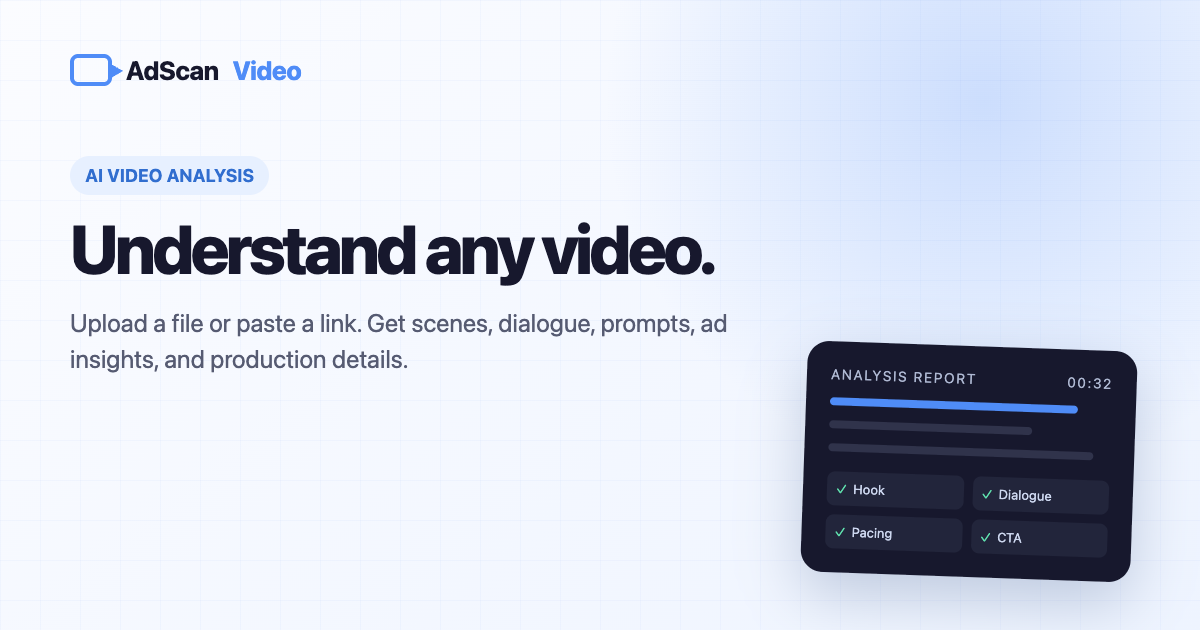
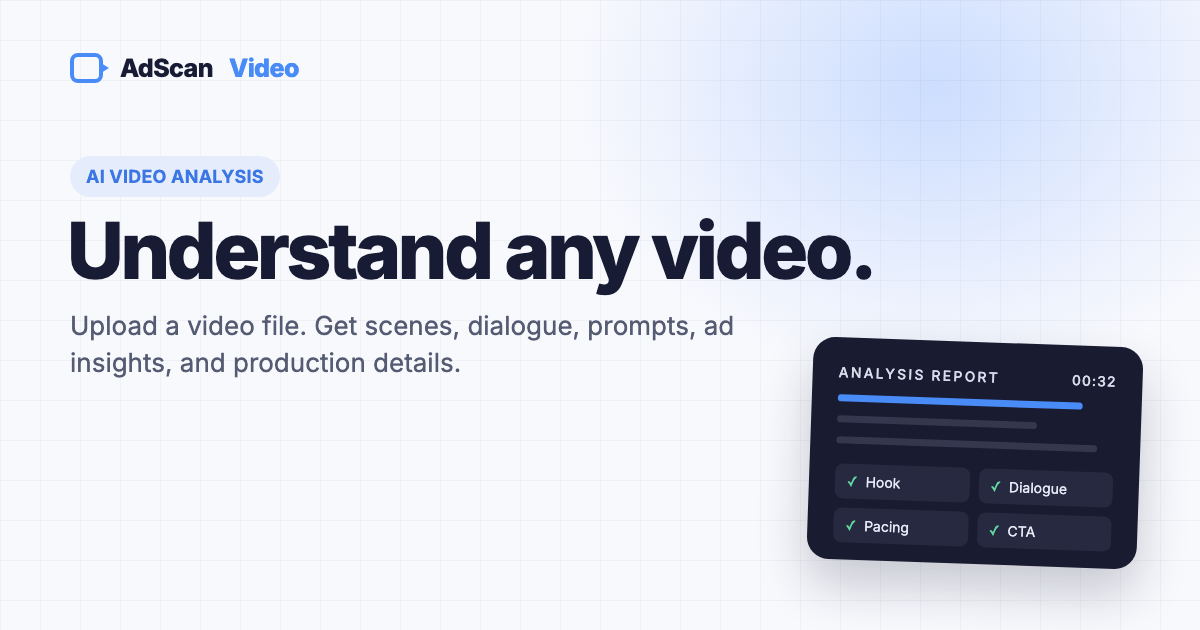
Correct stale link-input and monthly plan claims
The analyzer accepts uploaded files only and Monthly Premium is
available, so update the overview, support, sample and guide pages
and the social preview image. Record the one-free-sample release.

diff --git a/what-is-adscanvideo/index.html b/what-is-adscanvideo/index.html
@@ -40,7 +40,7 @@ footer{border-top:1px solid var(--border);padding:24px;max-width:760px;margin:0 
 "offers":[{"@type":"Offer","name":"Free","price":"0","priceCurrency":"USD","description":"First analysis free, videos up to 10 minutes, all modes, no signup required."},{"@type":"Offer","name":"Pay as you go","price":"3.99","priceCurrency":"USD","description":"One additional analysis for $3.99 per video. Tax is included where applicable. No subscription."}]},
 {"@type":"FAQPage","mainEntity":[
 {"@type":"Question","name":"What is AdScanVideo?","acceptedAnswer":{"@type":"Answer","text":"AdScanVideo is a web-based AI video analysis tool. You upload a video file, choose an analysis mode, and the tool extracts frames, deduplicates them, and analyzes them with AI to return structured text output."}},
-{"@type":"Question","name":"How much does AdScanVideo cost?","acceptedAnswer":{"@type":"Answer","text":"AdScanVideo is free to start with one sample analysis and no signup. An additional analysis costs $3.99 per video, with tax included where applicable. A capped monthly plan is proposed but not yet available to purchase."}},
+{"@type":"Question","name":"How much does AdScanVideo cost?","acceptedAnswer":{"@type":"Answer","text":"AdScanVideo is free to start with one sample analysis and no signup. An additional analysis costs $3.99 per video, with tax included where applicable. Monthly Premium costs $39.99 per month for 20 analyses, with videos up to 45 minutes."}},
 {"@type":"Question","name":"What video sources does AdScanVideo support?","acceptedAnswer":{"@type":"Answer","text":"AdScanVideo accepts direct file uploads in mp4, mov, webm, and mkv formats up to 200MB. The free tier supports videos up to 10 minutes."}},
 {"@type":"Question","name":"Do I need an account to use AdScanVideo?","acceptedAnswer":{"@type":"Answer","text":"No. The free tier requires no signup and no credit card. You can upload a video file and get an analysis immediately."}},
 {"@type":"Question","name":"What are the AdScanVideo analysis modes?","acceptedAnswer":{"@type":"Answer","text":"There are six modes: shot-by-shot analysis, cinematic AI prompts, podcast and interview notes, marketing assets, tutorial breakdown, and summary. Each mode returns a different structured output format."}},
@@ -53,10 +53,10 @@ footer{border-top:1px solid var(--border);padding:24px;max-width:760px;margin:0 
 <nav><div class="logo"><a href="/"><svg viewBox="0 0 24 24" fill="none" stroke="currentColor" stroke-width="2"><polygon points="23 7 16 12 23 17 23 7"/><rect x="1" y="5" width="15" height="14" rx="2" ry="2"/></svg>AdScan<span>Video</span></a></div><div class="nav-links"><a href="/">Home</a><a href="/blog/">Blog</a></div></nav>
 <div class="container">
 <h1>What is AdScanVideo?</h1>
-<div class="meta">Product Overview · Updated September 2026 · 3 min read</div>
+<div class="meta">Product Overview · Updated November 2026 · 3 min read</div>
 
 <div class="answer">
-<p><strong>AdScanVideo is a web-based AI video analysis tool.</strong> You give it a video — a YouTube or TikTok link, a video URL, or a file upload — and it gives you back structured written analysis.</p>
+<p><strong>AdScanVideo is a web-based AI video analysis tool.</strong> You upload a video file and it gives you back structured written analysis.</p>
 <p>It does not edit video, generate video, or host your files. It reads a video and explains what is in it, shot by shot, in text you can copy and use.</p>
 </div>
 
@@ -102,7 +102,7 @@ footer{border-top:1px solid var(--border);padding:24px;max-width:760px;margin:0 
 <tr><th>Plan</th><th>Price</th><th>Includes</th></tr>
 <tr><td><strong>Free</strong></td><td>$0</td><td>Your first analysis, videos up to 10 minutes, all six modes, no signup</td></tr>
 <tr><td><strong>Pay as you go</strong></td><td>$3.99 per video</td><td>One additional analysis, export to DOCX and PDF, no subscription. Tax is included where applicable.</td></tr>
-<tr><td><strong>Monthly</strong></td><td>$39.99/month proposed</td><td>A capped plan with 20 additional analyses per month is in development; it is not available to purchase yet.</td></tr>
+<tr><td><strong>Monthly</strong></td><td>$39.99/month</td><td>Monthly Premium: 20 analyses per paid billing month, videos up to 45 minutes, exports included.</td></tr>
 <tr><td><strong>Agency pilot</strong></td><td>From $499/month, by agreement</td><td>Volume and deliverables are scoped individually. Contact us to discuss your workflow; no self-serve agency checkout is available.</td></tr>
 </table>
 
@@ -144,13 +144,13 @@ footer{border-top:1px solid var(--border);padding:24px;max-width:760px;margin:0 
 <p class="faq-a">Yes. Your first analysis is free, with videos up to 10 minutes and access to all six modes, with no signup and no credit card.</p>
 
 <p class="faq-q">How much does it cost after free?</p>
-<p class="faq-a">Your first analysis is free. Additional analyses cost $3.99 per video. The planned monthly tier is not available yet.</p>
+<p class="faq-a">Your first analysis is free. Additional analyses cost $3.99 per video. Monthly Premium costs $39.99 per month for 20 analyses, with videos up to 45 minutes.</p>
 
 <p class="faq-q">What kinds of videos work best?</p>
 <p class="faq-a">Videos up to 10 minutes work best — ads, TikTok clips, YouTube shorts, product demos, interviews, and individual scenes.</p>
 
 <p class="faq-q">Does it work on competitor ads?</p>
-<p class="faq-a">Yes. Reverse-engineering a competitor's video ad is one of the main uses. Upload or link the ad and use shot-by-shot analysis to see its hook, pacing, and structure with timestamps.</p>
+<p class="faq-a">Yes. Reverse-engineering a competitor's video ad is one of the main uses. Upload the ad file and use shot-by-shot analysis to see its hook, pacing, and structure with timestamps.</p>
 
 <p class="faq-q">Does AdScanVideo work with Seedance, Kling, Sora, and Veo?</p>
 <p class="faq-a">Yes. The cinematic prompts mode produces shot descriptions covering subject, action, environment, camera, mood, and aspect ratio — the same fields those models expect.</p>

diff --git a/samples/animated-cat-shot-breakdown/index.html b/samples/animated-cat-shot-breakdown/index.html
@@ -4,4 +4,4 @@
 <main><header class="report-hero"><div><div class="meta">REAL SAMPLE · SHOT BREAKDOWN</div><h1>An animated story mapped second by second.</h1><p class="dek">A fast, vertical animation moves through three settings in eight seconds. AdScanVideo identified nine visual moments and preserved the sequence as a practical shot map.</p><div class="report-summary"><span>Duration 00:08</span><span>12 frames sampled</span><span>11 frames kept</span><span>Minimal dialogue</span></div></div><figure><img src="/samples/assets/cat-opening.jpg" alt="Animated orange cat holding a stick beside a duck"><figcaption>Representative frame at 00:00.6. The source video is not hosted on this page.</figcaption></figure></header>
 <div class="report-body"><aside class="report-aside"><nav aria-label="Report sections"><a href="#source">Source</a><a href="#report">Generated report</a><a href="#reading">What it captured</a><a href="#limitations">Limitations</a></nav></aside><article class="report-content"><h2 id="source">Source clip</h2><p>The supplied MP4 is a 360×640 vertical animation lasting 8.64 seconds. It contains an orange cat, a duck, rapid setting changes, and a short audio track. The live pipeline processed the clip in Shot breakdown mode.</p><div class="frame-pair"><img src="/samples/assets/cat-opening.jpg" alt="Opening field scene with cat and duck"><img src="/samples/assets/cat-kitchen.jpg" alt="Animated cat and duck riding a motorcycle"></div>
 <h2 id="report">Generated report</h2><ol><li><span class="timestamp">00:00–00:01</span><br>Medium shot of a cartoon orange cat with a gold chain and a small duck beside him, both standing in a grassy field under a blue sky with clouds. The camera zooms in slightly.</li><li><span class="timestamp">00:01–00:02</span><br>Medium shot of the cat and duck. The cat appears to be swatting at the duck with a stick. The camera moves down and to the left.</li><li><span class="timestamp">00:02–00:03</span><br>Medium shot of the cat holding a stick with the duck near its feet. The camera moves up and to the right.</li><li><span class="timestamp">00:03</span><br>Medium shot of the cat.</li><li><span class="timestamp">00:03–00:04</span><br>Medium shot of the cat wearing sunglasses and a chain, riding a motorcycle with the duck in front. The camera moves with them.</li><li><span class="timestamp">00:04–00:05</span><br>Medium shot of the cat in a kitchen wearing a chain, holding a knife and cutting food in a pan on a stove.</li><li><span class="timestamp">00:05–00:06</span><br>Medium shot of the cat wearing a chef's hat and a chain, holding tongs and cooking food in a pan.</li><li><span class="timestamp">00:06–00:07</span><br>Medium shot of the cat wearing a chef's hat and a chain, holding tongs and cooking food in a pan.</li><li><span class="timestamp">00:07</span><br>Medium shot of the cat wearing a chef's hat and a chain, holding tongs and cooking food in a pan. A brief “Oh” is detected in the audio.</li></ol>
-<h2 id="reading">What the report captured</h2><p>The output preserved the main sequence: field, motorcycle, then kitchen. It identified recurring characters, costume changes, props, settings, and broad camera movement. This is useful as an editing map or a starting point for a recreation prompt.</p><h2 id="limitations">Limitations visible in this sample</h2><p>Several near-identical cooking frames remain separate because the visuals continue changing. The short audio signal produced only one usable word. Character intent and exact camera technique are inferred from sampled frames and should be checked against the original video.</p><div class="note">This page presents the production model's output with punctuation and formatting changes only. No claims were added after analysis.</div><section class="cta"><h2>Break down your own video</h2><p>Upload a file or paste a public link. Choose Shot breakdown for timestamped visual observations.</p><a href="/?mode=shots#input-zone" data-sample-cta="cat-shot-breakdown">Analyze a video</a></section></article></div></main><footer><div><a href="/samples/">Sample reports</a> · <a href="/about/">Methodology</a></div><div>Generated September 21, 2026</div></footer><script>document.querySelectorAll('[data-sample-cta]').forEach(a=>a.addEventListener('click',()=>gtag('event','sample_report_cta_clicked',{sample:a.dataset.sampleCta})))</script></body></html>
+<h2 id="reading">What the report captured</h2><p>The output preserved the main sequence: field, motorcycle, then kitchen. It identified recurring characters, costume changes, props, settings, and broad camera movement. This is useful as an editing map or a starting point for a recreation prompt.</p><h2 id="limitations">Limitations visible in this sample</h2><p>Several near-identical cooking frames remain separate because the visuals continue changing. The short audio signal produced only one usable word. Character intent and exact camera technique are inferred from sampled frames and should be checked against the original video.</p><div class="note">This page presents the production model's output with punctuation and formatting changes only. No claims were added after analysis.</div><section class="cta"><h2>Break down your own video</h2><p>Upload a video file. Choose Shot breakdown for timestamped visual observations.</p><a href="/?mode=shots#input-zone" data-sample-cta="cat-shot-breakdown">Analyze a video</a></section></article></div></main><footer><div><a href="/samples/">Sample reports</a> · <a href="/about/">Methodology</a></div><div>Generated September 21, 2026</div></footer><script>document.querySelectorAll('[data-sample-cta]').forEach(a=>a.addEventListener('click',()=>gtag('event','sample_report_cta_clicked',{sample:a.dataset.sampleCta})))</script></body></html>

diff --git a/blog/youtube-shorts-shot-list-template/index.html b/blog/youtube-shorts-shot-list-template/index.html
@@ -20,7 +20,7 @@ My production decision:
 Placement / caption safe-zone check:
 Owner and status:</pre></div>
 <h2>A five-pass workflow for any reference clip</h2><div class="checklist"><ul><li><strong>Watch once at full speed.</strong> Write the opening, change, and ending in three short sentences. This catches the overall rhythm before frame-by-frame detail distracts you.</li><li><strong>Mark setup changes.</strong> Note when the location, subject, action, or framing changes enough to require a different production choice. Avoid treating every sampled frame as a cut.</li><li><strong>Separate visual facts from guesses.</strong> “Camera appears to move closer” is an observation. “Shot on a 35mm lens with a dolly” is a production choice unless the source actually reveals it.</li><li><strong>Add sound deliberately.</strong> Record confirmed dialogue only when a usable transcript or captions exist. Otherwise mark audio for manual review and plan your own new script.</li><li><strong>Build the new plan.</strong> Decide which timing patterns are useful, then change the characters, story, visual identity, and assets to suit your own concept. Clear any rights before reusing third-party media.</li></ul></div>
-<h2>How to use AI without losing editorial control</h2><p><a href="/video-to-shot-list/">AdScanVideo Shot breakdown</a> can create a first-pass timestamp map with selected frames and available dialogue. It currently analyzes up to 20 selected frames, so a very quick insert or transition can be missed. Scrub the whole clip manually, especially around cuts and text that flashes briefly. When a public link fails because the platform blocks downloading, upload a file you have the right to use; a failed analysis does not use your free sample.</p><p>For a longer production, see the <a href="/blog/turn-video-into-production-shot-list/">general production shot-list guide</a>. If the goal is to make a generative video rather than a filmed one, carry the same setup plan into the <a href="/video-to-prompt/">video-to-prompt workflow</a>, and describe what each new shot should show without copying protected creative elements.</p>
+<h2>How to use AI without losing editorial control</h2><p><a href="/video-to-shot-list/">AdScanVideo Shot breakdown</a> can create a first-pass timestamp map with selected frames and available dialogue. It currently analyzes up to 20 selected frames, so a very quick insert or transition can be missed. Scrub the whole clip manually, especially around cuts and text that flashes briefly. AdScanVideo analyzes uploaded files, not links, so upload a file you have the right to use; a failed analysis does not use your free sample.</p><p>For a longer production, see the <a href="/blog/turn-video-into-production-shot-list/">general production shot-list guide</a>. If the goal is to make a generative video rather than a filmed one, carry the same setup plan into the <a href="/video-to-prompt/">video-to-prompt workflow</a>, and describe what each new shot should show without copying protected creative elements.</p>
 <h2>Frequently asked questions</h2><div class="faq"><h3>Is a shot breakdown the same as a shot list?</h3><p>No. A breakdown records what a finished clip visibly contains. A production shot list adds the new shoot’s location, framing, movement, props, people, audio, and practical instructions.</p></div><div class="faq"><h3>Should every second of a Short become a separate shot?</h3><p>No. Group repeated frames when the setup and action stay the same. Split a beat when the location, subject, framing, or action changes enough that the crew needs a different setup.</p></div><div class="faq"><h3>Can I copy a popular Short shot for shot?</h3><p>Use references to study timing and production choices, then create your own material. Obtain the rights and permissions needed before reusing someone else’s footage, audio, characters, or protected creative elements.</p></div>
 <section class="sources"><h2>Sources and example</h2><ul><li><a href="/samples/animated-cat-shot-breakdown/">AdScanVideo: full real sample output and limitations</a></li><li><a href="https://support.google.com/youtube/answer/12948118?co=YOUTUBE._YTVideoType%3Dshorts&amp;hl=en-GB" rel="noopener">YouTube Help: filming Shorts with a phone</a></li><li><a href="https://support.google.com/youtube/answer/2797466?hl=en" rel="noopener">YouTube Help: copyright and reuse</a></li></ul></section>
 <section class="cta"><h2>Make your first shot map.</h2><p>Upload a short clip you have the right to analyze, choose Shot breakdown, and turn the timestamped report into a production plan. Your first analysis is free.</p><a href="/?mode=shots#input-zone" data-cta="shorts-shot-list-guide">Analyze a video free</a></section></main><footer><div><a href="/">AdScanVideo</a> · <a href="/blog/">All guides</a> · <a href="/privacy/">Privacy</a></div><div>Early access · $3.99/video</div></footer><script>document.querySelectorAll('[data-cta]').forEach(a=>a.addEventListener('click',()=>gtag('event','content_cta_clicked',{content_topic:'youtube_shorts_shot_list',cta_placement:a.dataset.cta})))</script></body></html>

diff --git a/video-to-prompt/index.html b/video-to-prompt/index.html
@@ -17,6 +17,6 @@ Medium close-up of a runner stopping beneath a streetlight at blue hour. Handhel
 <section class="section"><h2>See the difference on a real eight-second clip</h2><p>Our <a href="/samples/animated-cat-shot-breakdown/">published shot-breakdown sample</a> describes an opening 00:00–00:01 moment: an orange cartoon cat and a duck in a grassy field under a blue sky, with a slight camera zoom. That is an observation from a processed video, not a generated video prompt.</p><p>To turn a <em>similar camera idea</em> into an original prompt, keep the shot structure and change the characters and setting. For example:</p><div class="example"><pre>Vertical medium shot, 1 second. Two original paper-cutout characters stand in a sunlit rooftop garden. Begin with both figures in frame and move the camera forward in a subtle, continuous zoom. Bright blue sky, soft cloud shapes, clean readable silhouettes. End before the next scene change.</pre></div><p>This rewritten prompt is a human-written illustration, not verbatim analyzer output. Check the <a href="/samples/animated-cat-shot-breakdown/">real report</a> for the timestamped visual evidence, then edit your own prompt for your chosen video model.</p></section>
 <section class="section"><div class="two"><div><h2>Prompt details to keep</h2><ul class="checklist"><li>Subject and continuous action</li><li>Shot size, angle, and composition</li><li>Camera movement and apparent speed</li><li>Lighting direction, color, and mood</li><li>Duration, dialogue, and transition</li></ul></div><div><h2>Details to rewrite</h2><ul class="checklist"><li>Brand and product identity</li><li>Protected characters or distinctive artwork</li><li>Claims and on-screen copy</li><li>Location and wardrobe for your concept</li><li>Platform-specific aspect ratio and duration</li></ul></div></div><div class="notice">The analysis describes visible creative choices. It does not reproduce an original video or guarantee that a generation model will match it exactly.</div></section>
 <section class="section"><h2>Questions before you analyze</h2><div class="faq"><h3>Can a video be converted into a text prompt?</h3><p>Yes. The analyzer samples the video and creates timestamped descriptions of subject, action, framing, camera movement, lighting, and style that can be adapted into prompts.</p></div><div class="faq"><h3>Which AI video models can use the prompts?</h3><p>The output is plain structured text, so it can be adapted for Sora, Veo, Kling, Runway, Seedance, and other prompt-based video tools.</p></div><div class="faq"><h3>Does the prompt include dialogue?</h3><p>It includes dialogue when captions or a usable audio transcript are available. Visual-only footage receives visual prompts without invented speech.</p></div><div class="faq"><h3>Can I recreate any copyrighted video?</h3><p>Use references you own or are authorized to study. Transform the idea into original work and respect copyright, trademarks, publicity rights, and platform rules.</p></div><h2 style="margin-top:42px">Related workflows</h2><div class="related"><a href="/video-to-shot-list/">Create a production shot list</a><a href="/ai-video-analyzer/">Analyze the complete video</a><a href="/blog/ai-video-prompts-recreate-any-shot/">Read the prompting guide</a></div></section>
-<section class="final"><h2>Turn the next video into something you can use.</h2><p>Upload a file or paste a public link. Choose the focused mode and get a structured report with your first analysis free.</p><a class="button" href="/?mode=shots#input-zone" data-cta="final">Start free analysis</a></section></main>
+<section class="final"><h2>Turn the next video into something you can use.</h2><p>Upload a video file. Choose the focused mode and get a structured report with your first analysis free.</p><a class="button" href="/?mode=shots#input-zone" data-cta="final">Start free analysis</a></section></main>
 <footer><div><a href="/">AdScanVideo</a> · <a href="/blog/">Guides</a> · <a href="/privacy/">Privacy</a></div><div>Early access · $3.99/video</div></footer>
 <script>document.querySelectorAll('[data-cta]').forEach(a=>a.addEventListener('click',()=>gtag('event','landing_cta_clicked',{landing_page:'video-to-prompt',analysis_mode:'shots',cta_placement:a.dataset.cta})))</script></body></html>

diff --git a/support/index.html b/support/index.html
@@ -1,7 +1,7 @@
 <!doctype html>
 <html lang="en"><head><meta charset="utf-8"><meta name="viewport" content="width=device-width,initial-scale=1"><title>Support, billing and refunds | AdScanVideo</title><meta name="description" content="Get help with failed analyses, credits, receipts and refunds for AdScanVideo."><link rel="canonical" href="https://adscanvideo.com/support/"><link rel="stylesheet" href="/legal.css"></head>
 <body><header><a href="/">AdScanVideo</a><nav aria-label="Site"><a href="/">Analyzer</a><a href="/terms/">Terms</a><a href="/privacy/">Privacy</a></nav></header><main><h1>Support, billing and refunds</h1><p class="updated">Last updated October 2, 2026</p><p class="lede">For help with a video analysis or purchased credit, email <a href="mailto:support@adscanvideo.com">support@adscanvideo.com</a>.</p>
-<h2>Analysis failed or got stuck</h2><p>Refresh the analyzer page to reconnect to an active job. If a job ends in an error, its free allowance or paid credit should be restored automatically. A video link can fail when its platform blocks server downloads; if you own the file or have permission, try uploading it instead. For a video over 10 minutes, upload a shorter clip.</p><p>If the allowance or credit is not restored, email us the approximate time, chosen analysis mode, whether you uploaded or pasted a link, and any error shown. Share the job identifier if you have it. You do not need to send the video itself.</p>
+<h2>Analysis failed or got stuck</h2><p>Refresh the analyzer page to reconnect to an active job. If a job ends in an error, its free allowance or paid credit should be restored automatically. The analyzer accepts uploaded video files, not video links. For a video over your plan's length limit, upload a shorter clip.</p><p>If the allowance or credit is not restored, email us the approximate time, chosen analysis mode, and any error shown. Share the job identifier if you have it. You do not need to send the video itself.</p>
 <h2>Receipts and invoices</h2><p>Stripe Managed Payments emails the payment receipt or invoice to the email address entered at checkout. We do not email the AI report: it appears in your browser when the analysis completes. If you need help finding a receipt, use the payment email address in your message to us; do not send a card number.</p>
 <h2>Refund requests</h2><p>Tell us the payment email address, approximate purchase date, and what went wrong. We will review the payment and job, restore a credit or arrange a refund when appropriate, and honor applicable consumer rights. A failed analysis should not consume a credit. Stripe handles payment and transaction support for Managed Payments purchases; we handle product-specific support.</p>
 <h2>Subscriptions</h2><p>The $3.99 credit is a one-time purchase. The $39.99 monthly plan is available only when the pricing page shows an active Subscribe button. If you subscribe, use Manage billing on the pricing page or Stripe’s customer portal login from your checkout email to cancel or update a payment method. Canceling stops the next renewal; the current paid period remains available until it ends. Monthly analyses do not roll over. Sign in with your email before checkout and use an email sign in link if you change browsers. For older anonymous purchases, sign in on the original browser first to attach your credits. Contact us with your payment email if you need help.</p><div class="note"><p><strong>Privacy:</strong> Do not email passwords, full card details, or sensitive video content. Our <a href="/privacy/">privacy policy</a> explains what video and report data we retain.</p></div>

diff --git a/blog/ai-video-analysis-frame-by-frame-accuracy/index.html b/blog/ai-video-analysis-frame-by-frame-accuracy/index.html
@@ -32,7 +32,7 @@
 <p>You should not infer nine unique camera setups or nine exact edit boundaries from nine rows. A row can repeat an ongoing action. Several sampled images can belong to one shot, and a short shot can fall between samples. A time reference like <code>00:03 to 00:04</code> is useful for finding a candidate moment, but the report alone does not establish its first and last source frames.</p>
 <h2>A five-pass review for ads and creator footage</h2>
 <div class="step"><strong>1. Define the question.</strong> “Where does the product first appear?” is more actionable than “Analyze everything.” Decide whether you need a broad creative map, a checked quote, or an exact edit point. Use <a href="/video-ad-analyzer/">Ad intelligence</a> for an ad review and <a href="/video-to-shot-list/">Shot breakdown</a> for visual structure.</div>
-<div class="step"><strong>2. Start with a focused, authorized clip.</strong> If the question concerns an opening hook, prepare the relevant excerpt rather than expecting a whole-video report to inspect every brief transition. Keep the original file and note where the excerpt starts. Follow the <a href="/blog/video-link-not-working-upload-file/">file-upload checklist</a> if a public link cannot be downloaded.</div>
+<div class="step"><strong>2. Start with a focused, authorized clip.</strong> If the question concerns an opening hook, prepare the relevant excerpt rather than expecting a whole-video report to inspect every brief transition. Keep the original file and note where the excerpt starts. Follow the <a href="/blog/video-link-not-working-upload-file/">file-upload checklist</a> if the file will not upload.</div>
 <div class="step"><strong>3. Replay around the reported time.</strong> Look before and after the suggested timestamp. A visible frame proves what was present at that moment, not everything that preceded it. For an exact cut, use your editor's frame navigation and markers, then check the adjoining shots.</div>
 <div class="step"><strong>4. Separate observation from inference.</strong> “The subject is centered” describes visible placement. “This used an 85 mm lens” proposes equipment the image may not establish. Keep camera-model, intent, and performance guesses out of a factual handoff unless independently supported.</div>
 <div class="step"><strong>5. Verify words and onscreen claims separately.</strong> Listen to quoted dialogue and read prices, disclaimers, product names, and calls to action in the original. A report that includes speech is still not a checked transcript. Use our <a href="/blog/video-caption-quality-checklist/">caption QA checklist</a> when publishing speech as text.</div>

diff --git a/blog/video-shot-breakdown-how-to-analyse-any-video-like-a-director/index.html b/blog/video-shot-breakdown-how-to-analyse-any-video-like-a-director/index.html
@@ -88,7 +88,7 @@
 
 <p>An AI video analysis tool samples frames across the video, detects visual change between them, and describes what it sees — which is exactly the manual process, minus the scrubbing.</p>
 
-<p>In AdScanVideo, you pick <strong>Shot breakdown</strong>, drop in a file or paste a YouTube or TikTok link, and get a numbered shot list with timestamps back in roughly a minute:</p>
+<p>In AdScanVideo, you pick <strong>Shot breakdown</strong>, upload a video file, and get a numbered shot list with timestamps back in roughly a minute:</p>
 
 <div class="highlight">
 <p>1. [00:00–00:03] Medium shot — subject speaking to camera, plain background.<br>

diff --git a/DEPLOYMENT.md b/DEPLOYMENT.md
@@ -1,5 +1,19 @@
 # AdScanVideo deployment — verified September 20, 2026
 
+## One free sample: November 23, 2026
+
+The daily free allowance ended. `ADSCAN_FREE_POLICY=sample` and
+`ADSCAN_SAMPLE_SINCE` in the server `.env` give each browser or signed-in
+account one free analysis, with a time-limited network match; free use before
+the cutover is not counted. Rollback: remove both lines and restart
+`adscanvideo-api`. Only `service.py` changed on the server; backups are under
+`backups/one-free-sample-20261123-084926/` and
+`backups/sample-message-20261123-092501/`. Production checks: first upload 202
+and done, second request 402 for the same browser and for a new browser on the
+same network, private result 404 without the owner token. Site copy was
+released to Cloudflare Pages the same day; older sections below that mention a
+daily allowance are historical.
+
 ## Marketing dashboard — October 5, 2026
 
 `/dashboard/#marketing` adds the owner's searchable publication library, platform

diff --git a/backend/README.md b/backend/README.md
@@ -74,9 +74,7 @@ mitigation, not a verified one-person identity system.
 Setting `ADSCAN_FREE_POLICY=sample` replaces the daily reset with one free
 sample per browser or signed-in account; a matching network counts for a
 limited period only. `ADSCAN_SAMPLE_SINCE` (epoch seconds) ignores free use
-before that time. Unset, the daily behavior above applies. The site copy on
-this branch describes the sample policy, so release the copy and switch the
-setting together.
+before that time. Unset, the daily behavior above applies. Production has run the sample policy since 23 November 2026.
 
 Nginx must overwrite X-Real-IP and trust CF-Connecting-IP **only** from official
 Cloudflare CIDRs. Gunicorn must remain bound to loopback. Do not trust arbitrary
